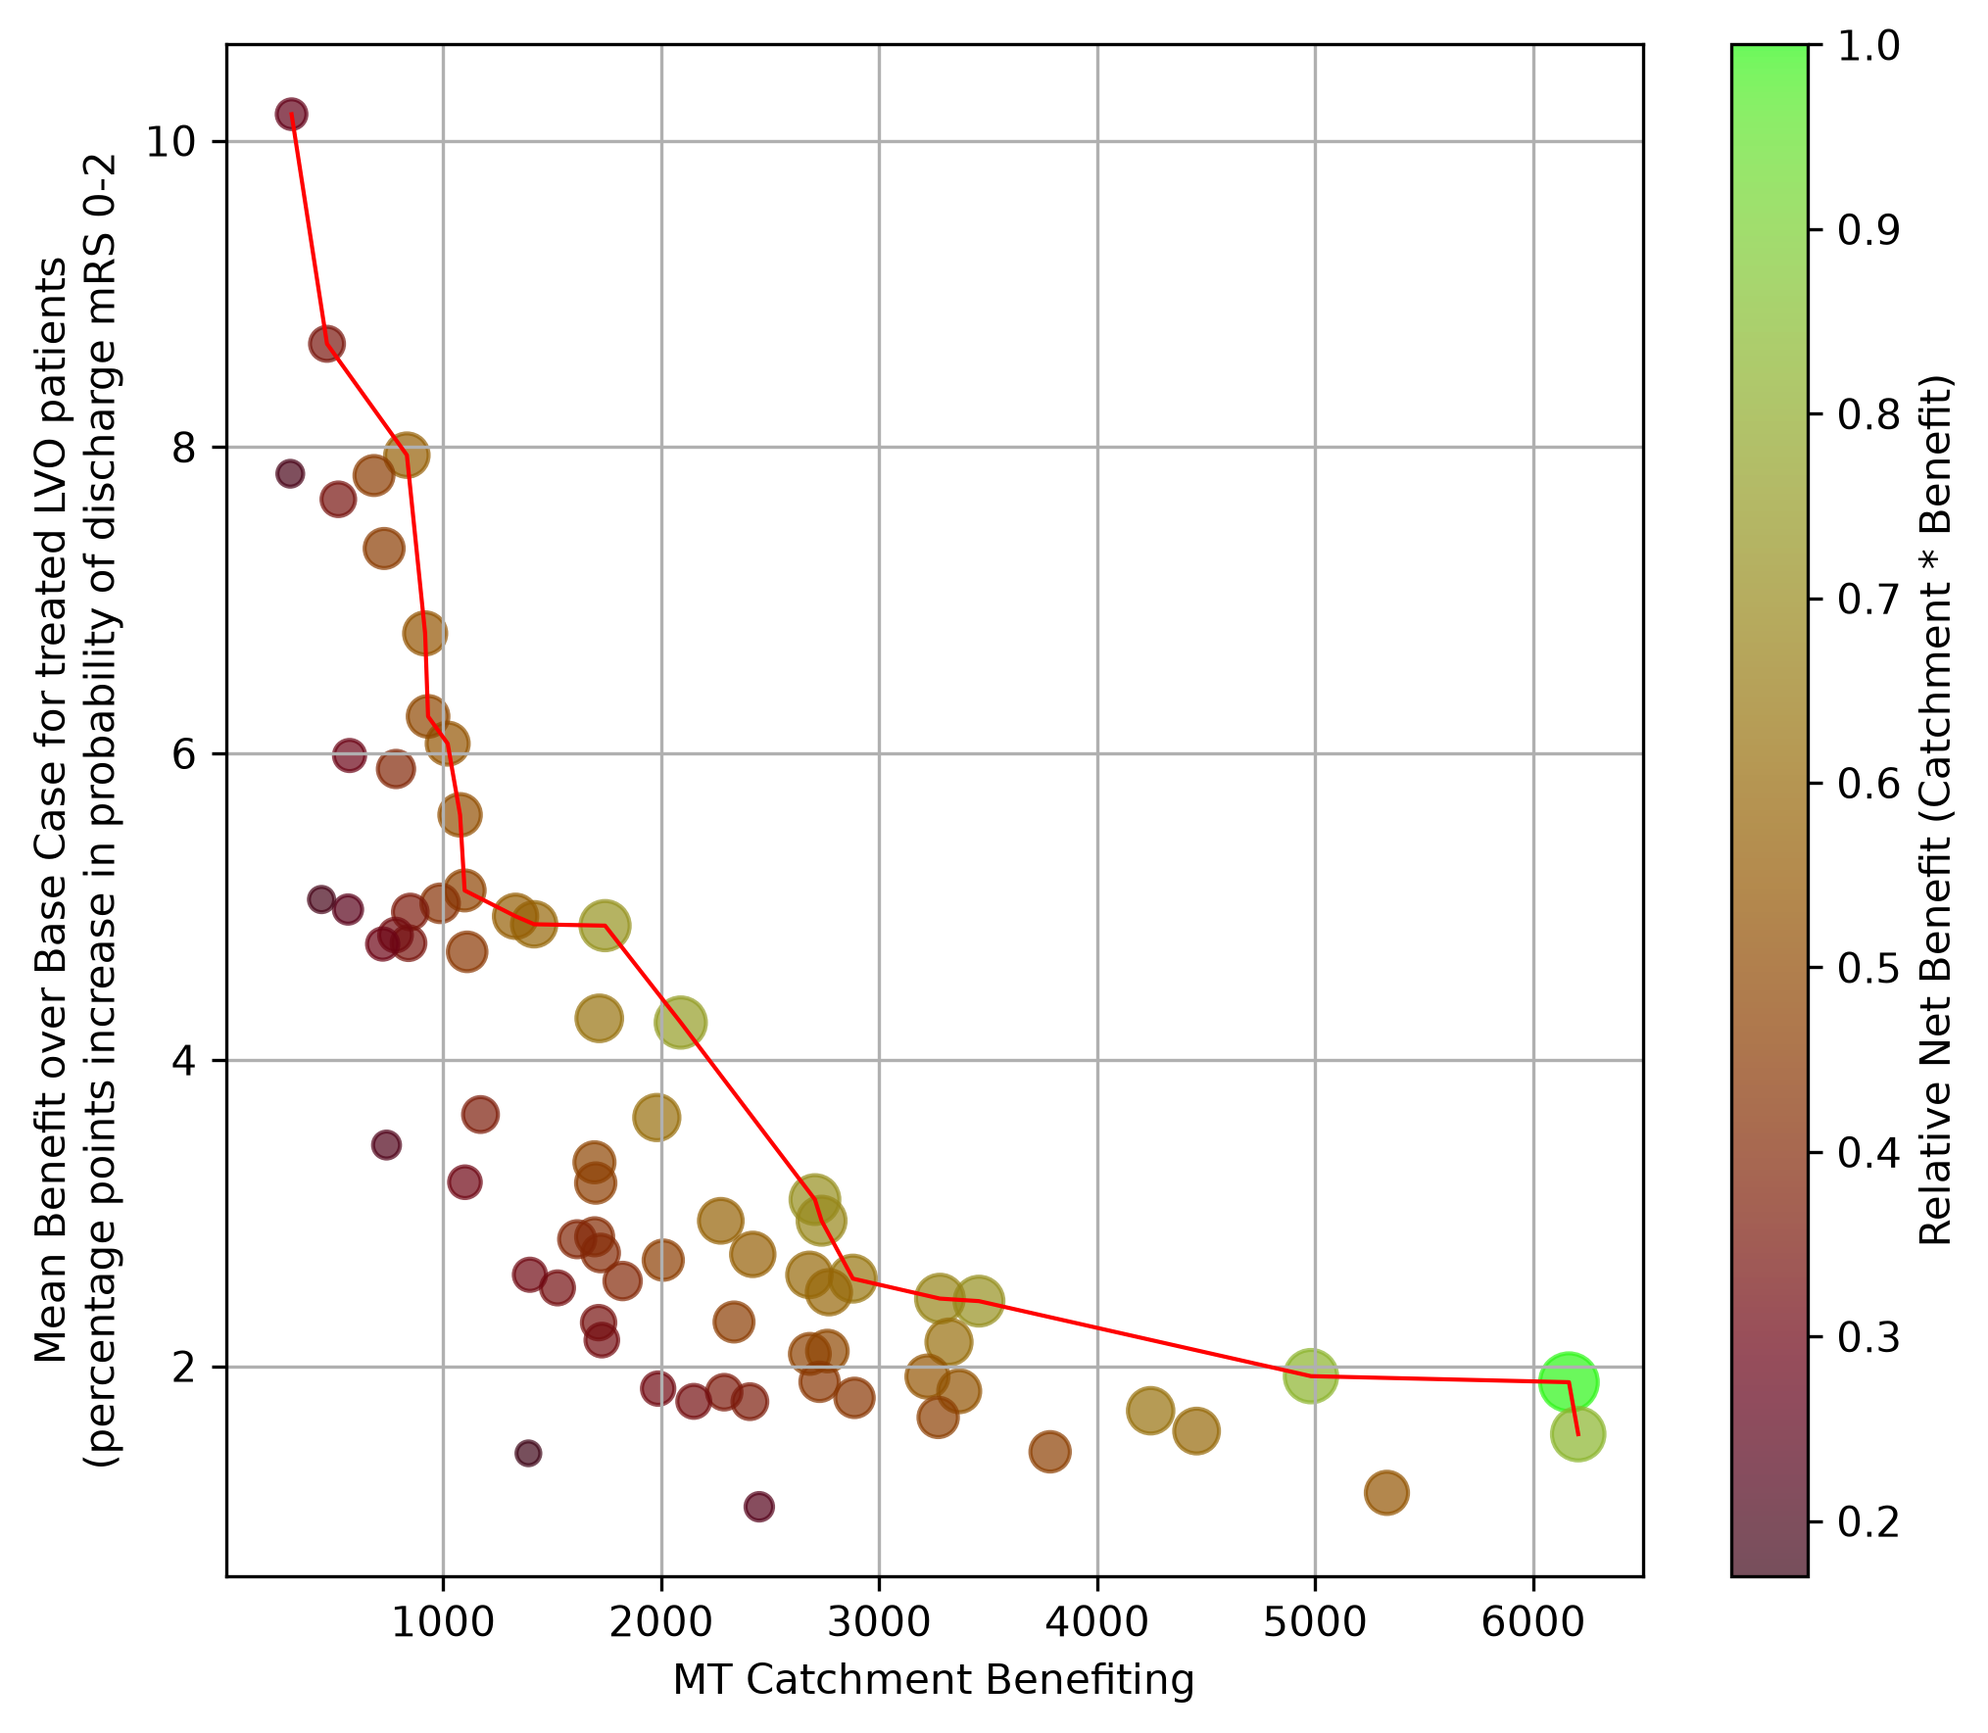
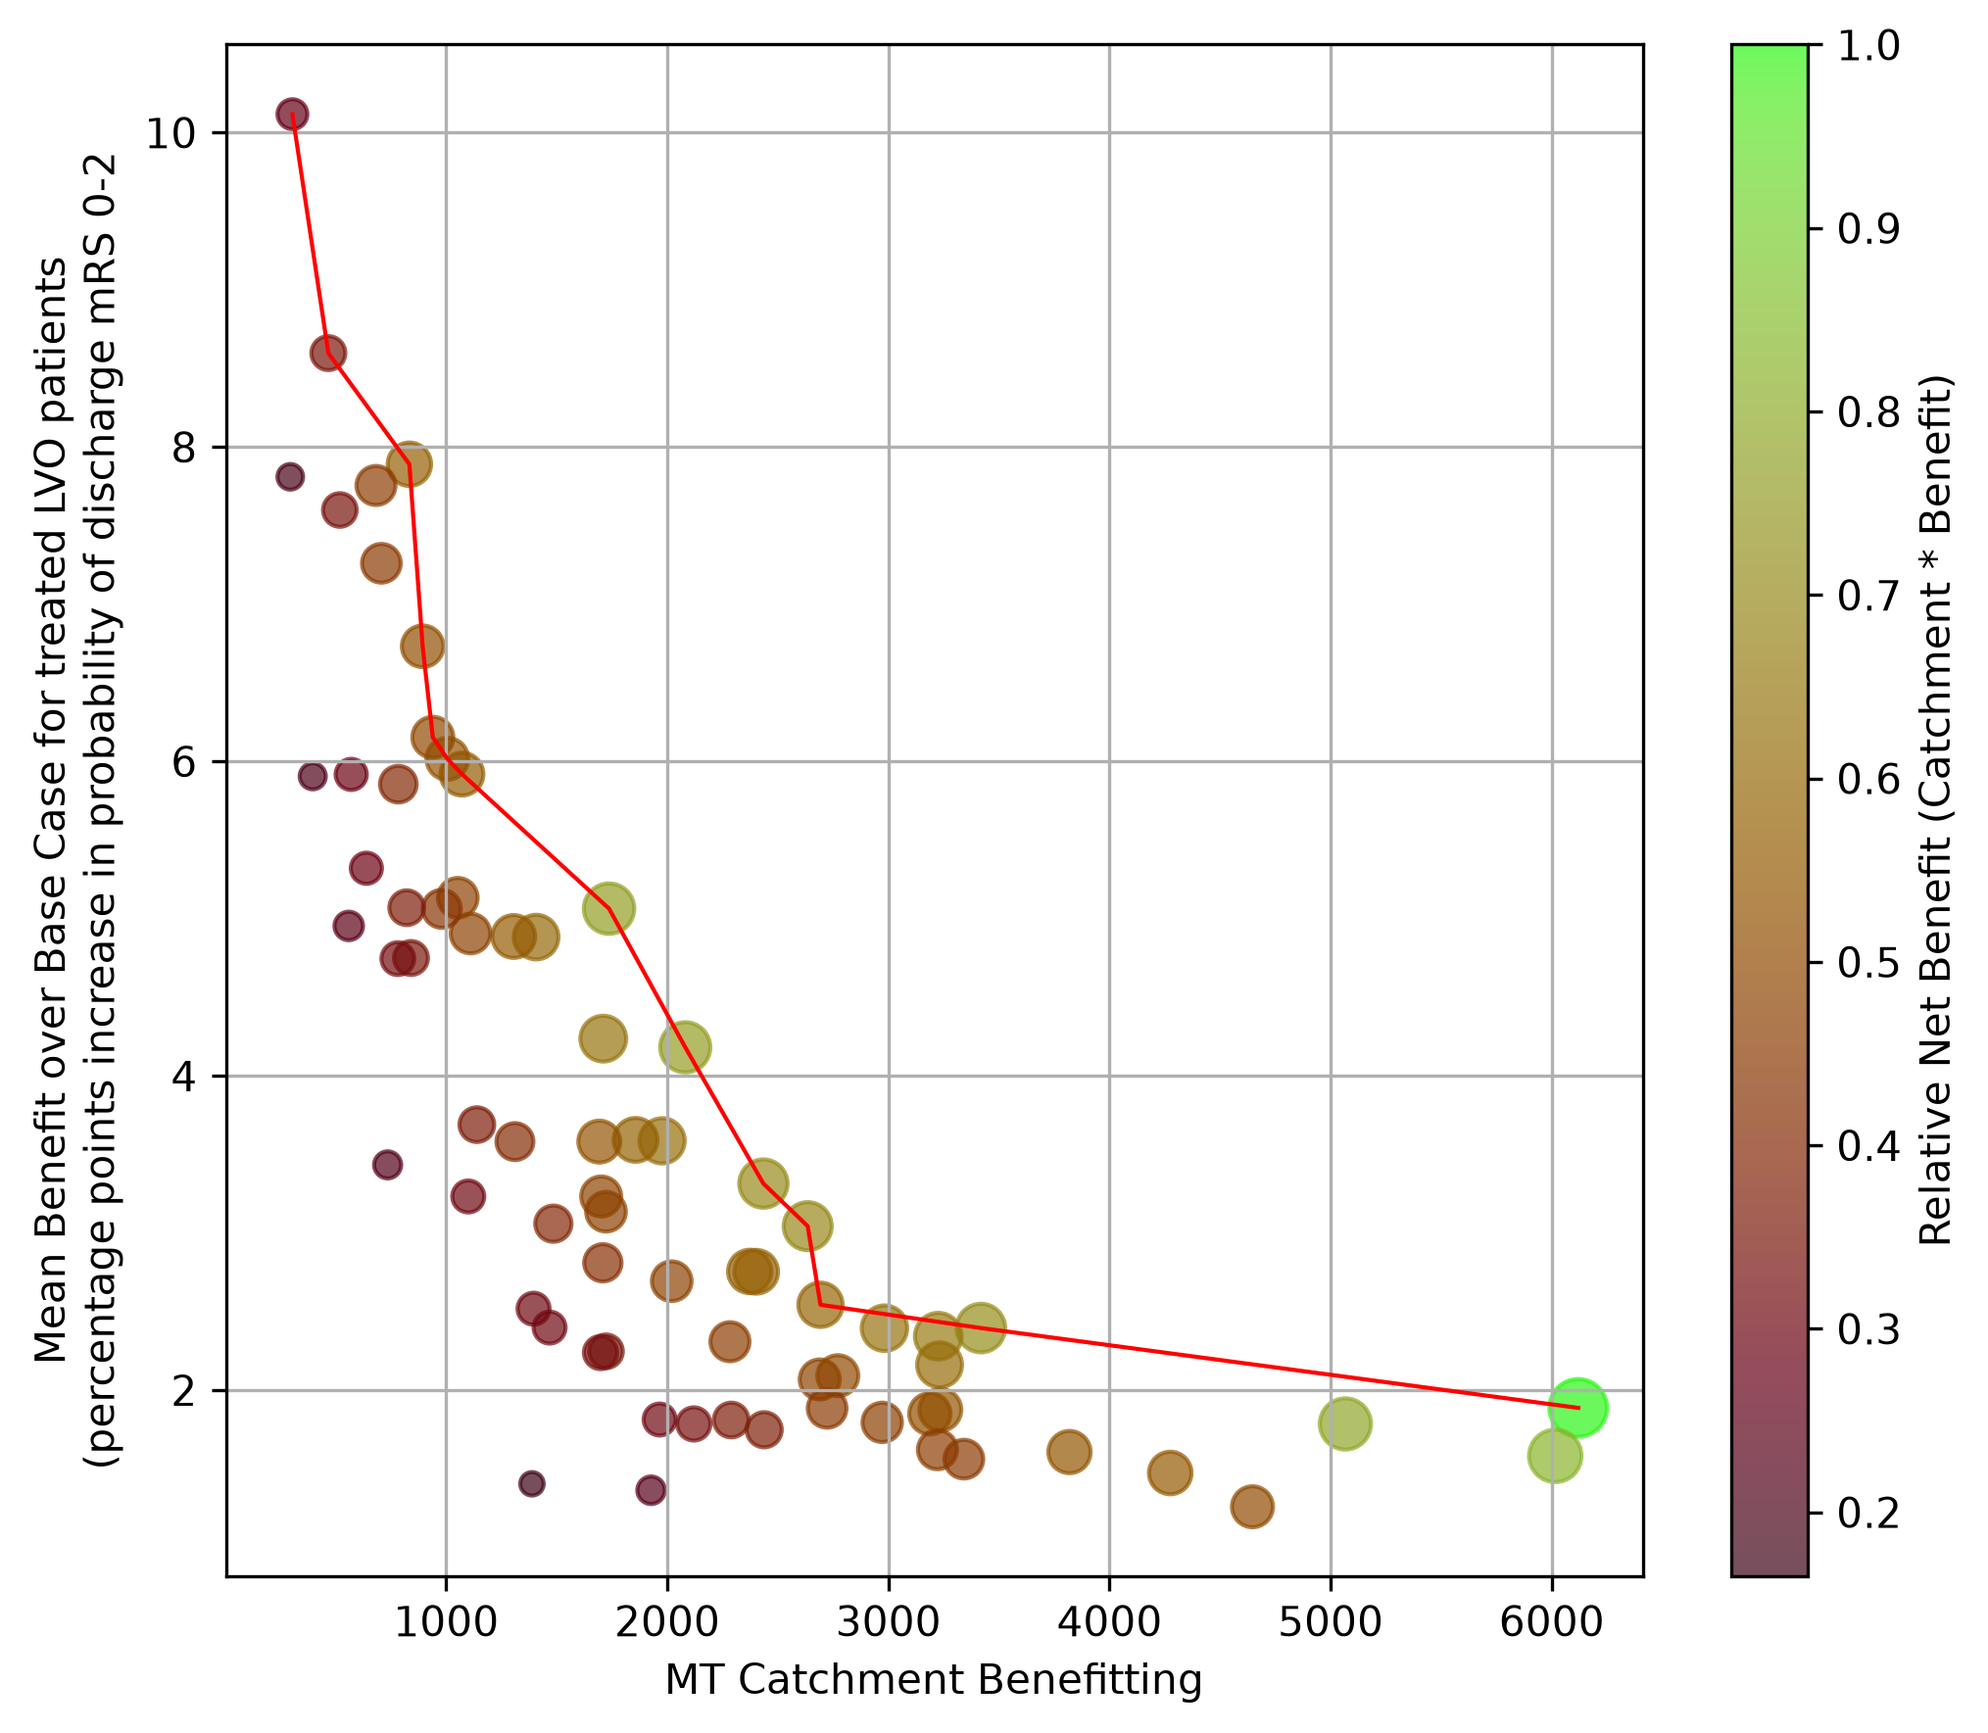
Updated figures and tables to match code version 1.0.0.

diff --git a/chapters/4_results.tex b/chapters/4_results.tex
@@ -48,13 +48,13 @@ Improvement in outcomes is not even across the population who may benefit. The b
     \toprule
     IVT location & No MT loss & 33\% MT loss \\
     \midrule
-    Taunton     & 7.13 & 8.11 \\
-    Worcester   & 5.55 & 7.13 \\
-    Hereford    & 1.51 & 1.01 \\
-    Barnstaple  & 1.43 & 0.96 \\
-    Exeter      & 1.04 & 0.69 \\
-    Cheltenham  & 0.92 & 0.62 \\
-    Dorchester  & 0.05 & 0.04 \\
+    Taunton & 7.12 & 8.10 \\
+    Worcester & 5.55 & 7.13 \\
+    Hereford & 1.52 & 1.02 \\
+    Barnstaple & 1.43 & 0.96 \\
+    Exeter & 1.03 & 0.69 \\
+    Cheltenham & 0.92 & 0.62 \\
+    Dorchester & 0.06 & 0.04 \\
     \bottomrule
   \end{tabular}
 \end{table}
@@ -66,7 +66,7 @@ Figures \ref{fig:map_current_no_loss} to \ref{fig:map_new_lossy} show maps of th
 % Base case
 \begin{figure}[H]
 \centering
-\includegraphics[width=\linewidth]{images/map_three_in_one_current_hospitals_lvo.png} 
+\includegraphics[width=\linewidth]{images/map_three_in_one_base_lvo.png} 
 \caption{Modelled times and outcomes for stroke patients with large vessel occlusion receiving thrombolysis (IVT) and thrombectomy (MT), with current IVT/MT provision (Taunton and Worcester as IVT-only units) and no loss of MT by first attending an IVT-only unit. \textit{Left}: Predicted travel times to closest (in time) IVT unit. \textit{Middle}: Total travel time to MT unit; this includes travel time to closest IVT unit, a net delay before transfer of 60 minutes, and travel time from IVT unit to MT unit. \textit{Right}: The predicted improvement in the proportion of treated LVO patients with mRS 0-2 at 3-6 months, assuming there is no loss of use of MT by first attending an IVT-only unit. Stroke teams are shown as stars (providing both IVT and MT) or circles (providing IVT alone).}
 \label{fig:map_current_no_loss}
 \end{figure}
@@ -74,7 +74,7 @@ Figures \ref{fig:map_current_no_loss} to \ref{fig:map_new_lossy} show maps of th
 % Base case - loss pf MT
 \begin{figure}[H]
 \centering
-\includegraphics[width=\linewidth]{images/map_three_in_one_current_hospitals_67_percent_transfer_lvo.png} 
+\includegraphics[width=\linewidth]{images/map_three_in_one_lossydripship_base_lvo.png} 
 \caption{Modelled times and outcomes for stroke patients with large vessel occlusion receiving thrombolysis (IVT) and thrombectomy (MT), with current IVT/MT provision (Taunton and Worcester as IVT-only units) and 33\% loss of use of MT by first attending an IVT-only unit. \textit{Left}: Predicted travel times to closest (in time) IVT unit. \textit{Middle}: Total travel time to MT unit; this includes travel time to closest IVT unit, a net delay before transfer of 60 minutes, and travel time from IVT unit to MT unit. \textit{Right}: The predicted improvement in the proportion of treated LVO patients with mRS 0-2 at 3-6 months, assuming a 33\% loss of use of MT by first attending an IVT-only unit. Stroke teams are shown as stars (providing both IVT and MT) or circles (providing IVT alone).}
 \label{fig:map_current_lossy}
 \end{figure}
@@ -84,7 +84,7 @@ Figures \ref{fig:map_current_no_loss} to \ref{fig:map_new_lossy} show maps of th
 % Worcester + Taunton
 \begin{figure}[H]
 \centering
-\includegraphics[width=\linewidth]{images/map_three_in_one_taunton_and_worcester_lvo.png}  
+\includegraphics[width=\linewidth]{images/map_three_in_one_taunworc_lvo.png}  
 \caption{Modelled times and outcomes for stroke patients with large vessel occlusion receiving thrombolysis (IVT) and thrombectomy (MT), with planned IVT/MT provision (additional MT units at Taunton and Worcester) and no loss of MT by first attending an IVT-only unit. \textit{Left}: Predicted travel times to closest (in time) IVT unit. \textit{Middle}: Total travel time to MT unit; this includes travel time to closest IVT unit, a net delay before transfer of 60 minutes, and travel time from IVT unit to MT unit. \textit{Right}: The predicted improvement in the proportion of treated LVO patients with mRS 0-2 at 3-6 months, assuming there is no loss of use of MT by first attending an IVT-only unit. Stroke teams are shown as stars (providing both IVT and MT) or circles (providing IVT alone).}
 \label{fig:map_new_no_loss}
 \end{figure}
@@ -92,7 +92,7 @@ Figures \ref{fig:map_current_no_loss} to \ref{fig:map_new_lossy} show maps of th
 % Worcester + Taunton - loss pf MT
 \begin{figure}[H]
 \centering
-\includegraphics[width=\linewidth]{images/map_three_in_one_taunton_and_worcester_67_percent_transfer_lvo.png} 
+\includegraphics[width=\linewidth]{images/map_three_in_one_lossydripship_taunworc_lvo.png} 
 \caption{Modelled times and outcomes for stroke patients with large vessel occlusion receiving thrombolysis (IVT) and thrombectomy (MT), with planned IVT/MT provision (additional MT units at Taunton and Worcester) and 33\% loss of use of MT by first attending an IVT-only unit. \textit{Left}: Predicted travel times to closest (in time) IVT unit. \textit{Middle}: Total travel time to MT unit; this includes travel time to closest IVT unit, a net delay before transfer of 60 minutes, and travel time from IVT unit to MT unit. \textit{Right}:  The predicted improvement in the proportion of treated LVO patients with mRS 0-2 at 3-6 months, assuming a 33\% loss of use of MT by first attending an IVT-only unit. Stroke teams are shown as stars (providing both IVT and MT) or circles (providing IVT alone).}
 \label{fig:map_new_lossy}
 \end{figure}
@@ -103,14 +103,14 @@ Figures \ref{fig:map_current_no_loss} to \ref{fig:map_new_lossy} show maps of th
 
 \begin{figure}[H]
     \centering
-    \includegraphics[width=1\linewidth]{images/comparison_map_three_in_one_taunton_worcester.png}
+    \includegraphics[width=1\linewidth]{images/comparison_map_three_in_one_taunworc.png}
     \caption{Comparison of travel times for MT (including non-travel delays) and outcomes (the predicted improvement in the proportion of treated LVO patients with mRS 0-2 at 3-6 months) by adding MT capability at Taunton and Worcester, with no loss of MT by first attending an IVT-only unit. The arrows indicate the modelled transfer destination from IVT-only units. \textit{Left}: Current predicted travel times for MT, \textit{Middle}: Improvement in travel time to MT. \textit{Right}: Improvement in outcomes.}
     \label{fig:comparison_three_in_one}
 \end{figure}
 
 \begin{figure}[H]
     \centering
-    \includegraphics[width=1\linewidth]{images/comparison_map_three_in_one_taunton_worcester_67_percent_transfer.png}
+    \includegraphics[width=1\linewidth]{images/comparison_map_three_in_one_lossydripship_taunworc.png}
     \caption{Comparison of travel times for MT (including non-travel delays) and outcomes (the predicted improvement in the proportion of treated LVO patients with mRS 0-2 at 3-6 months) by adding MT capability at Taunton and Worcester, with 33\% loss of MT by first attending an IVT-only unit. The arrows indicate the modelled transfer destination from IVT-only units. \textit{Left}: Current predicted travel times for MT, \textit{Middle}: Improvement in travel time to MT. \textit{Right}: Improvement in outcomes.}
     \label{fig:comparison_three_in_one_lossy}
 \end{figure}
@@ -129,12 +129,13 @@ Table \ref{tab:mt_units} shows the effect of adding MT units at Taunton and Worc
 \hline
 \textbf{MT Unit} & \textbf{Current MT*} & \textbf{Planned MT*} & \textbf{Change} \\
 \hline
-Birmingham    & 707 & 585 & $-122$ \\
-North Bristol & 393 & 219 & $-174$ \\
-Plymouth      & 341 & 231 & $-110$ \\
-Southampton**   & 558 & 488 & $-70$  \\
-Taunton**     & 0   & 273 & 273    \\
-Worcester     & 0   & 202 & 202    \\
+Birmingham & 711 & 589 & $-$122 \\
+Southampton** & 560 & 491 & $-$69 \\
+North Bristol & 394 & 220 & $-$174 \\
+Coventry & 384 & 384 & 0 \\
+Plymouth & 341 & 232 & $-$109 \\
+Taunton** & 0 & 272 & 272 \\
+Worcester & 0 & 202 & 202 \\
 \hline
 \end{tabular}
 
@@ -168,14 +169,14 @@ With the addition of Taunton and Worcester as MT units, a summary of key results
 
 \begin{figure}[H]
     \centering
-    \includegraphics[width=1\linewidth]{images/map_three_in_one_current_hospitals_10min_travel_bias_lvo.png}
+    \includegraphics[width=1\linewidth]{images/map_three_in_one_base_bias10min_lvo.png}
     \caption{Modelled times and outcomes for stroke patients with large vessel occlusion receiving thrombolysis (IVT) and thrombectomy (MT), with current IVT/MT provision (Taunton and Worcester as IVT-only units), no loss of MT by first attending an IVT-only unit, and with patients being taken to an MT unit if travel time is no longer than 10 minutes more than first attending a closer IVT-only unit. \textit{Left}: Predicted travel times to closest (in time) IVT unit. \textit{Middle}: Total travel time to MT unit; this includes travel time to closest IVT unit, a net delay before transfer of 60 minutes, and travel time from IVT unit to MT unit. \textit{Right}: The predicted improvement in the proportion of treated LVO patients with mRS 0-2 at 3-6 months, assuming there is no loss of use of MT by first attending an IVT-only unit. Stroke teams are shown as stars (providing both IVT and MT) or circles (providing IVT alone).}
     \label{fig:map_current_bias}
 \end{figure}
 
 \begin{figure}[H]
     \centering
-    \includegraphics[width=1\linewidth]{images/map_three_in_one_taunton_and_worcester_10min_bias_lvo.png}
+    \includegraphics[width=1\linewidth]{images/map_three_in_one_taunworc_bias10min_lvo.png}
     \caption{Modelled times and outcomes for stroke patients with large vessel occlusion receiving thrombolysis (IVT) and thrombectomy (MT), with planned IVT/MT provision (additional MT units at Taunton and Worcester), no loss of MT by first attending an IVT-only unit, and with patients being taken to an MT unit if travel time is no longer than 10 minutes more than first attending a closer IVT-only unit. \textit{Left}: Predicted travel times to closest (in time) IVT unit. \textit{Middle}: Total travel time to MT unit; this includes travel time to closest IVT unit, a net delay before transfer of 60 minutes, and travel time from IVT unit to MT unit. \textit{Right}: The predicted improvement in the proportion of treated LVO patients with mRS 0-2 at 3-6 months, assuming there is no loss of use of MT by first attending an IVT-only unit. Stroke teams are shown as stars (providing both IVT and MT) or circles (providing IVT alone).}
     \label{fig:map_taunton_worcester_bias}
 \end{figure}

diff --git a/chapters/7_supplement.tex b/chapters/7_supplement.tex
@@ -13,46 +13,46 @@ We tested each IVT-only unit to estimate the potential gain from adding that uni
 \toprule
 Hospital Location & \shortstack[r]{Admission Catchment\\Benefiting} & \shortstack[r]{Mean\\Benefit} & \shortstack[r]{Relative\\Benefit} \\
 \midrule
-Harrow              & 6164 & 1.90 & 1.00 \\
-Smethwick           & 6206 & 1.56 & 0.83 \\
-Watford             & 4980 & 1.93 & 0.82 \\
-Bournemouth         & 2090 & 4.24 & 0.76 \\
-Stockport           & 1743 & 4.88 & 0.73 \\
-Northampton         & 3458 & 2.42 & 0.72 \\
-Frimley Park        & 2705 & 3.09 & 0.72 \\
-Taunton             & 2736 & 2.95 & 0.69 \\
-Wolverhampton       & 3279 & 2.44 & 0.69 \\
-Dartford            & 2879 & 2.57 & 0.63 \\
-Peterborough        & 1716 & 4.27 & 0.63 \\
-Reading             & 4245 & 1.71 & 0.62 \\
-Portsmouth          & 1980 & 3.62 & 0.61 \\
-Chertsey            & 3320 & 2.16 & 0.61 \\
-Luton and Dunstable & 4456 & 1.58 & 0.60 \\
-Exeter              & 2680 & 2.60 & 0.60 \\
-Bury                & 1417 & 4.88 & 0.59 \\
-Doncaster           & 2769 & 2.48 & 0.59 \\
-Leicester           & 2273 & 2.95 & 0.57 \\
-Truro               &  834 & 7.95 & 0.57 \\
-Milton Keynes       & 2420 & 2.73 & 0.57 \\
-Colchester          & 1332 & 4.94 & 0.56 \\
-High Wycombe        & 5329 & 1.17 & 0.54 \\
-Dudley              & 3221 & 1.93 & 0.53 \\
-Lincoln             &  917 & 6.78 & 0.53 \\
-York                & 1021 & 6.06 & 0.53 \\
-Stevenage           & 3367 & 1.84 & 0.53 \\
-Maidstone           & 1078 & 5.60 & 0.52 \\
-Telford             &  931 & 6.24 & 0.50 \\
-Cheltenham          & 2762 & 2.10 & 0.50 \\
-Bradford            & 1694 & 3.33 & 0.48 \\
-Derby               & 1099 & 5.11 & 0.48 \\
-Torbay              & 2682 & 2.08 & 0.48 \\
-Basildon            & 3784 & 1.44 & 0.47 \\
-Epsom               & 3270 & 1.67 & 0.47 \\
-Ipswich             & 1700 & 3.20 & 0.47 \\
-Worcester           & 2010 & 2.69 & 0.46 \\
-Dorchester          &  729 & 7.34 & 0.46 \\
-Swindon             & 2334 & 2.29 & 0.46 \\
-Carlisle            &  683 & 7.81 & 0.46 \\
+Harrow & 6120 & 1.89 & 1.00 \\
+Smethwick & 6016 & 1.58 & 0.83 \\
+Watford & 5067 & 1.79 & 0.79 \\
+Stockport & 1737 & 5.06 & 0.76 \\
+Bournemouth & 2081 & 4.18 & 0.76 \\
+Northampton & 3418 & 2.40 & 0.71 \\
+Taunton & 2435 & 3.31 & 0.70 \\
+Frimley Park & 2635 & 3.04 & 0.69 \\
+Wolverhampton & 3226 & 2.34 & 0.65 \\
+Peterborough & 1711 & 4.24 & 0.63 \\
+Dartford & 2982 & 2.39 & 0.62 \\
+Portsmouth & 1977 & 3.59 & 0.61 \\
+Chertsey & 3231 & 2.16 & 0.61 \\
+Bury & 1407 & 4.88 & 0.60 \\
+Exeter & 2693 & 2.54 & 0.59 \\
+Doncaster & 2402 & 2.75 & 0.58 \\
+Leicester & 1857 & 3.59 & 0.58 \\
+Milton Keynes & 2373 & 2.76 & 0.57 \\
+Truro & 834 & 7.89 & 0.57 \\
+Maidstone & 1072 & 5.92 & 0.55 \\
+Colchester & 1306 & 4.89 & 0.55 \\
+Luton and Dunstable & 4275 & 1.47 & 0.54 \\
+Reading & 3819 & 1.61 & 0.54 \\
+York & 1006 & 6.02 & 0.53 \\
+Dudley & 3235 & 1.88 & 0.53 \\
+Prescot & 1693 & 3.58 & 0.53 \\
+Lincoln & 894 & 6.73 & 0.52 \\
+Stevenage & 3187 & 1.85 & 0.51 \\
+Cheltenham & 2771 & 2.09 & 0.50 \\
+Telford & 940 & 6.15 & 0.50 \\
+High Wycombe & 4646 & 1.26 & 0.50 \\
+Torbay & 2689 & 2.07 & 0.48 \\
+Bradford & 1701 & 3.23 & 0.48 \\
+Wakefield & 1110 & 4.91 & 0.47 \\
+Worcester & 2020 & 2.69 & 0.47 \\
+Ipswich & 1723 & 3.14 & 0.47 \\
+Derby & 1053 & 5.13 & 0.47 \\
+Princess Royal & 2972 & 1.80 & 0.47 \\
+Swindon & 2283 & 2.31 & 0.46 \\
+Carlisle & 683 & 7.76 & 0.46 \\
 \bottomrule
 \end{tabular}
 \end{table}
